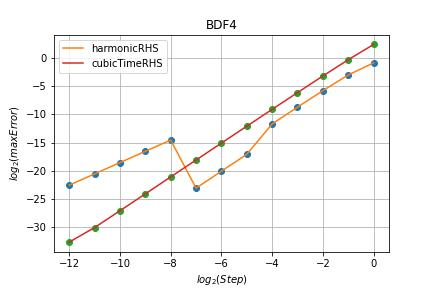
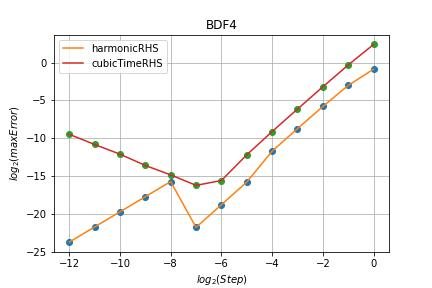
BDF4 & BDF5 (strange behaviour)

Changed region(s): [[0.0602, 0.1562, 0.9028, 0.875], [0.0602, 0.8438, 0.1204, 0.9062], [0.0903, 0.1875, 0.1204, 0.25]]

diff --git a/Computational Mathematics/Multistep Methods/src/BDF/BDF4.hpp b/Computational Mathematics/Multistep Methods/src/BDF/BDF4.hpp
@@ -10,11 +10,13 @@
 struct BDF4 {
     static constexpr unsigned int size = 4;
     static constexpr std::array<double, size> alpha = {(double)11/6, -3, 1.5, (double)-1/3};
+    static constexpr std::array<double, size> beta = {(double)1/3, 0.5, -1, (double)1/6};
 };
 
 struct BDF5 {
     static constexpr unsigned int size = 5;
     static constexpr std::array<double, size> alpha = {(double)25/12, -4, 3, (double)-4/3, 0.25};
+    static constexpr std::array<double, size> beta = {0.25, (double)5/6, -1.5, 0.5, (double)1/12};
 };
 
 class CubicTime {
@@ -94,16 +96,16 @@ std::vector<typename RHS::StateAndArg> integrateBDF(
 
             for (unsigned int i = 0; i < BDF::size - 1; ++i)
                 if (i > 0)
-                    pastSum += BDF::alpha[1 + i] * solution[index - i].state;
+                    pastSum += BDF::beta[1 + i] * solution[index - i].state;
                 else
-                    pastSum = BDF::alpha[1] * solution[index].state;
+                    pastSum = BDF::beta[1] * solution[index].state;
 
             //std::cout << rhs.calc(currentStateAndArg) << std::endl;
             //std::cout << pastSum << std::endl;
 
             currentTime += step;
             unsigned int nIter = 0;
-            previousApproximation = (step * rhs.calc(currentStateAndArg) - pastSum) / BDF::alpha[0];
+            previousApproximation = (step * rhs.calc(currentStateAndArg) - pastSum) / BDF::beta[0];
             StateAndArgApproximation.state = previousApproximation;
             StateAndArgApproximation.arg = currentTime;
             currentApproximation = (step/BDF::alpha[0]) * rhs.calc(StateAndArgApproximation) - pastSum/BDF::alpha[0];
@@ -114,6 +116,11 @@ std::vector<typename RHS::StateAndArg> integrateBDF(
                 previousApproximation = currentApproximation;
                 StateAndArgApproximation.state = previousApproximation;
                 StateAndArgApproximation.arg = currentTime;
+                for (unsigned int i = 0; i < BDF::size - 1; ++i)
+                    if (i > 0)
+                        pastSum += BDF::alpha[1 + i] * solution[index - i].state;
+                    else
+                        pastSum = BDF::alpha[1] * solution[index].state;
                 currentApproximation = (step/BDF::alpha[0]) * rhs.calc(StateAndArgApproximation) - pastSum/BDF::alpha[0];
             }
 
